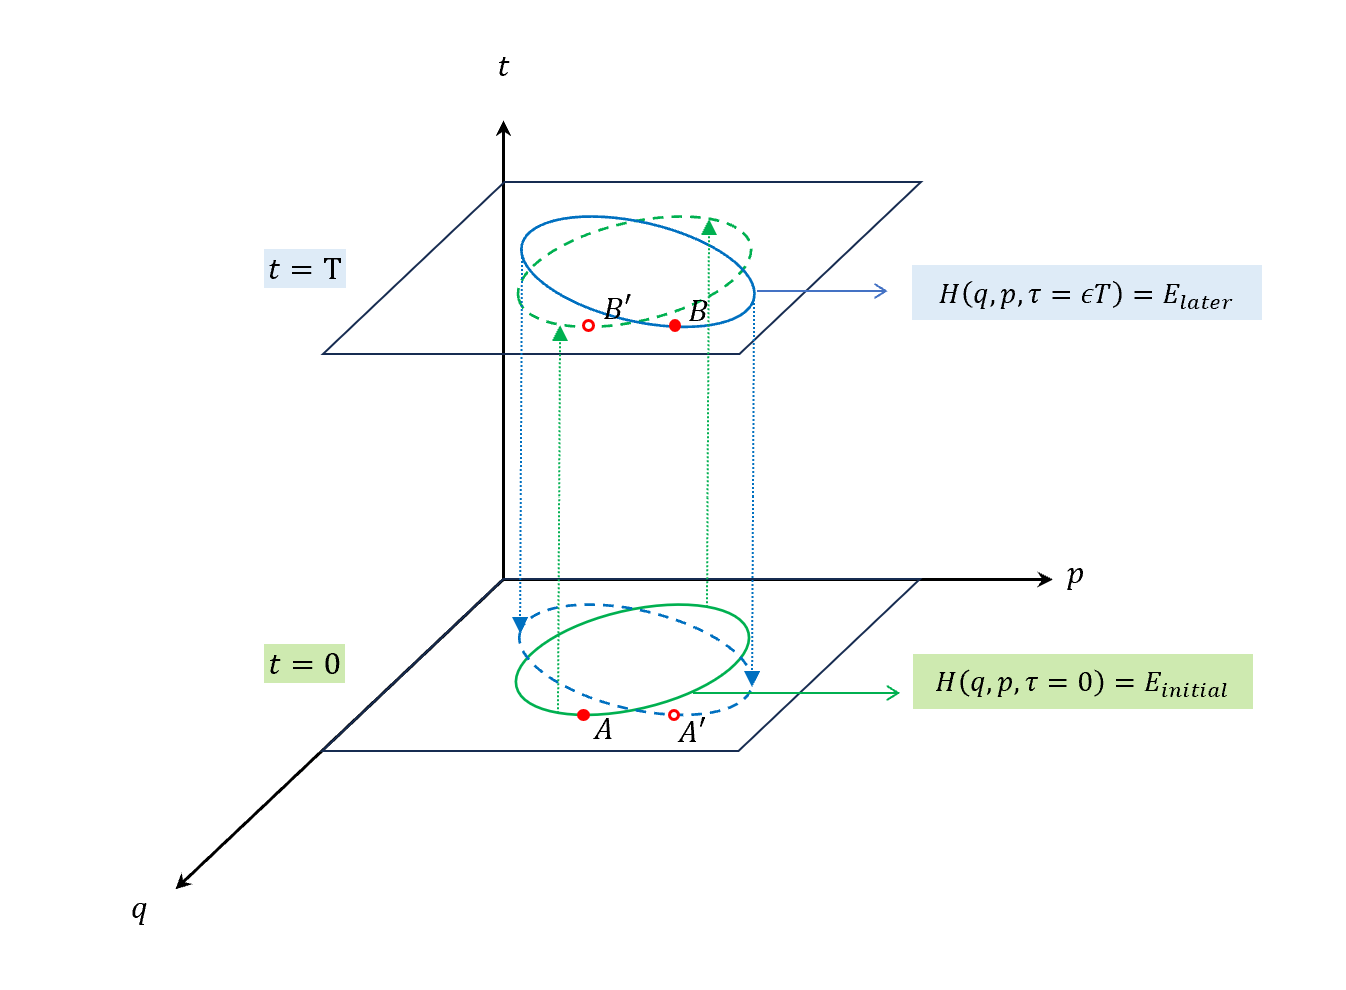
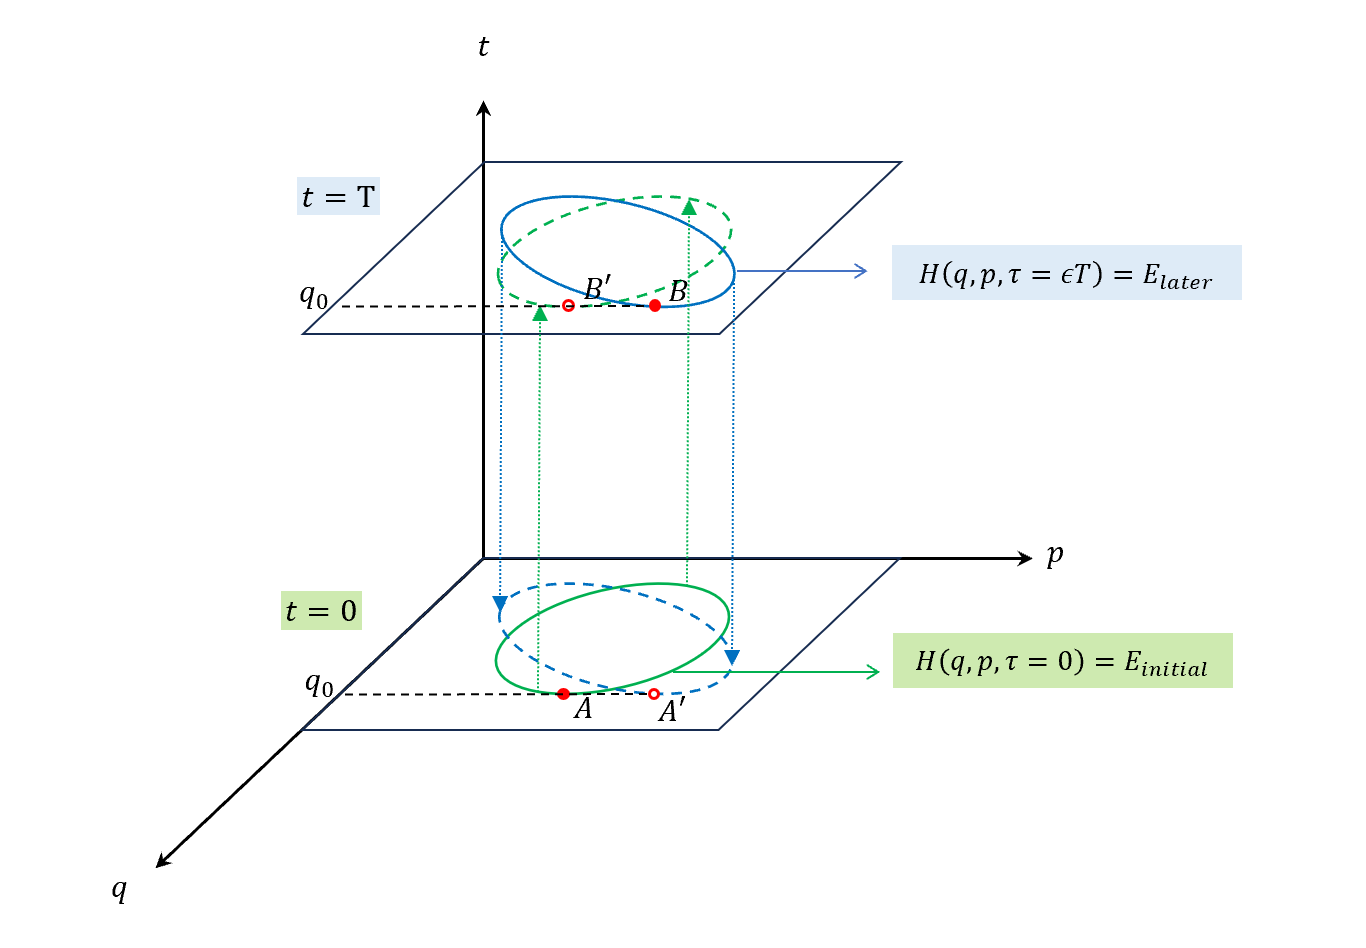
update ch21

diff --git a/_posts/physics/variation/2024-06-02-variation-4-001.md b/_posts/physics/variation/2024-06-02-variation-4-001.md
@@ -143,4 +143,220 @@ $$
 
 現在要來做變分，所以拓展到extended phase space，$q,p,t$都可以變化，只是這裡一樣限制自由度，做partial的變化。
 
+
+不多說，先上圖。
+
+
 {% include posts-fig.html path="/physics_variation/Fig21-2.png" %}
+
+
+現在整個系統的時間是一直在走的，$H$一直在變，所以是從$t=0$走到$t=T$，從$A$點螺旋上去走到$B$點，
+
+
+而我們現在畫圖就類似截圖的概念，在$t=0$和$t=T$各截一張，並畫出各自的$\oint{pdq}$。
+
+
+- $t=0$的時候，畫綠線，往上投影到$t=T$的綠色虛線。
+- $t=T$的時候，畫藍線，往下投影到$t=0$的藍色虛線。
+
+
+
+**注意**，我們有強調一次週期要算的是回到起始位置(盪一次回來)，所以可以看到經過時間$T$之後對應的$q$軸會是一樣的，但$p$就不需要了，只是預期
+
+$$
+p(t=T)-p(t=0)=\mathcal{O}(\epsilon)
+$$
+
+(可以想像，把前言的$H$公式做$\diff{p}{t}=-\pdv{H}{q}$計算，則$p$的變化量也是$\mathcal{O}(\epsilon)$。)
+
+
+### 做變分
+
+因為真實軌跡可以想像就是從綠色變成藍色，所以我們可以有兩種變法
+
+- 都維持在綠色(起始)的柱狀，會從$A$繞到$B'$，定為$\gamma{1}$
+- 都維持在藍色(最後)的柱狀，回推$B$繞到$A'$，定為$\gamma{2}$
+
+
+確認邊界條件$q$都沒有變就可以了。
+
+
+接著真實軌跡和變分的軌跡關係式(記得最早說過的變分取極值的概念，$\delta$() = 0)
+
+$$
+\int_{\text{true}}^{}pdq-Hdt\\
+=\int_{\gamma{1}}pdq-Hdt+\mathcal{O}(\epsilon^2)\\
+=\int_{\gamma{2}}pdq-Hdt+\mathcal{O}(\epsilon^2)
+$$
+
+
+因為end point condition是$\mathcal{O}(\epsilon)$，integral後就是$\mathcal{O}(\epsilon^2)$。
+
+
+(這裡還有點疑惑，但因為真實軌跡積起來的動量前面說到是差$\mathcal{O}(\epsilon)$，而變分這裡因為是圓柱狀直接對應，$p$沒差，所以的確相較於真實軌跡會差$\mathcal{O}(\epsilon)$，所以積分完就是二次。)
+
+移項
+
+$$
+\int_{\gamma{2}}pdq-\int_{\gamma{1}}pdq=\int_{\gamma{2}}Hdt-\int_{\gamma{1}}Hdt+\mathcal{O}(\epsilon^2)
+$$
+
+注意這裡的積分是繞著柱狀螺旋上去的軌跡，但我們從最上面俯視看的話，可以看到就是一個平面的二維曲線，所以改寫成circular integral
+
+$$
+\oint_{\text{at } t=T}pdq-\oint_{\text{at }t=0}pdq=\int_{\gamma{2}}Hdt-\int_{\gamma{1}}Hdt+\mathcal{O}(\epsilon^2)
+$$
+
+
+<div class="post_note">
+Note:
+<br>
+複習一下泰勒展開
+
+$$
+f(x) = \sum_{n=0}^{\infty} \frac{f^{(n)}(a)}{n!}(x - a)^n
+$$
+
+</div>
+
+### 綠色$\gamma{1}$
+
+在$t=0$做泰勒展開
+
+$$
+\int_{\gamma{1}}H(q,p,\tau=\epsilon{t})dt\\
+=\int \left(H(q,p,0)+\pdv{H(q,p,\tau)}{\tau}\epsilon{t}\right)dt+\mathcal{O}(\epsilon^2)\\
+=E_{\text{initial}}\cdot{T}+\epsilon\int\pdv{H(q,p,\tau)}{\tau}\bigg|_{\tau=0}^{}tdt+\mathcal{O}(\epsilon^2)
+$$
+
+### 藍色$\gamma{2}$
+
+在$t=T$做泰勒展開
+
+$$
+\int_{\gamma{2}}H(q,p,\tau=\epsilon{t})dt\\
+=\int_{\gamma{2}}H(q,p,\tau=\epsilon(T+t-T))dt\\
+=\int \left(H(q,p,\epsilon{T})+\pdv{H}{\tau}\epsilon{(t-T)}\right)dt+\mathcal{O}(\epsilon^2)\\
+=E_{\text{final}}\cdot{T}+\epsilon\int\pdv{H(q,p,\tau)}{\tau}\bigg|_{\tau=\epsilon{T}}^{}(t-T)dt+\mathcal{O}(\epsilon^2)\\
+=E_{\text{final}}\cdot{T}+\epsilon\int\pdv{H(q,p,\tau)}{\tau}\bigg|_{\color{red}{\tau=0}}^{}(t-T)dt+\mathcal{O}(\epsilon^2)
+$$
+
+這裡微分的at數值變了，是因為本來$\tau=\epsilon{T}$和$\tau=0$的時候，就會差$\epsilon$，所以有二次項的地方都收集到最後面的$\mathcal{O}(\epsilon^2)$。
+
+### 結合
+
+$$
+\begin{align}
+\int_{\gamma{2}}Hdt-\int_{\gamma{1}}Hdt=& (E_\text{final}-E_\text{initial})T\\
+&+\epsilon\int_{\gamma{2}}\pdv{H(q,p,\tau)}{\tau}\bigg|_{\tau=0}^{}(t-T)dt\\
+&-\epsilon\int_{\gamma{1}}\pdv{H(q,p,\tau)}{\tau}\bigg|_{\tau=0}^{}tdt\\
+&+\mathcal{O}(\epsilon^2)\\
+=& (E_\text{final}-E_\text{initial})T\\
+&+\epsilon\int_{\color{red}{\gamma{1}}}\pdv{H(q,p,\tau)}{\tau}\bigg|_{\tau=0}^{}(t-T)dt\\
+&-\epsilon\int_{\gamma{1}}\pdv{H(q,p,\tau)}{\tau}\bigg|_{\tau=0}^{}tdt\\
+&+\mathcal{O}(\epsilon^2)\\
+=& (E_\text{final}-E_\text{initial})T+\epsilon\int_{\gamma{1}}\pdv{H(q,p,\tau)}{\tau}\bigg|_{\tau=0}^{}(-T)dt+\mathcal{O}(\epsilon^2)\\
+=&(E_\text{final}-E_\text{initial})T-T\int_{\gamma{1}}\epsilon\pdv{H}{\tau}dt+\mathcal{O}(\epsilon^2)\\
+=&(E_\text{final}-E_\text{initial})T-T\int_{\gamma{1}}\pdv{H}{t}dt+\mathcal{O}(\epsilon^2)\\
+=&T\left[(E_\text{final}-E_\text{initial})-\int_{\gamma{1}}\pdv{H}{t}dt\right]+\mathcal{O}(\epsilon^2)\\
+=&T\cdot{0}+\mathcal{O}(\epsilon^2)\\
+=&\mathcal{O}(\epsilon^2)
+\end{align}
+$$  
+
+
+推導過程解釋幾個
+
+- 第二個等號：因為$\gamma{2}$改$\gamma{1}$差別是$\mathcal{O}(\epsilon)$，搭配前面的係數$\epsilon$，收集起來的二次項一樣可以放到後面$\mathcal{O}(\epsilon^2)$。
+- 第五個等號：$\tau=\epsilon{t}$
+- 最後一個等號：$\diff{H}{t}=\pdv{H}{t}\Rightarrow\Delta{H}=\int_{0}^{T}\pdv{H}{t}dt$
+
+### 得證
+
+很棒！那整理一下就是
+
+$$
+\oint_{\text{at } t=T}pdq-\oint_{\text{at }t=0}pdq=\int_{\gamma{2}}Hdt-\int_{\gamma{1}}Hdt+\mathcal{O}(\epsilon^2)=\mathcal{O}(\epsilon^2)
+$$
+
+用我們定義的$J$就是
+
+$$
+J\bigg|_{\text{when q has come back}}^{}=J\bigg|_{\text{q=initial}}^{}+\mathcal{O}(\epsilon^2)
+$$
+
+
+(附註一下，這全部的推導過程中，我都把二階項留了下來，但原始筆記有些有漏掉，但覺得應該這樣比較合理。)
+
+
+證實之前的猜想二，每一次週期回來原本的位置，都會差二次數量級，而累積長時間之後(up to $\mathcal{O}(\frac{1}{\epsilon})$)，就會差$\mathcal{O}(\epsilon)$而不是$\mathcal{O}(1)$
+
+$$
+J(t=\mathcal{O}(\frac{1}{\epsilon}))-J(t=0)=\mathcal{O}(\epsilon)\text{ only!!}
+$$
+
+## 小結
+
+再順一下思路，我們原本預設的$H$每次都要差$\mathcal{O}(\epsilon)$，所以$\mathcal{O}(\frac{1}{\epsilon})$會差$\mathcal{O}(1)$，認為在這個系統中，應該也都遵循著這個形式，物理量都差$\mathcal{O}(1)$。
+
+
+但是發現有一個adiabatic invartiant的物理量$\oint pdq$，每次只差$\mathcal{O}(\epsilon^2)$，所以$\mathcal{O}(\frac{1}{\epsilon})$之後只差$\mathcal{O}(\epsilon)$。
+
+## 舉例
+
+我們舉最常見的單擺SHO，假設現在我們偷偷慢慢拉繩子，所以公式類似這樣
+
+$$
+\diff[2]{\theta}{t}+\frac{g}{l(t)}\theta=0\\
+(\text{$l$ varied by t})
+$$
+
+那$H$公式
+
+$$
+H=\frac{p^2}{2m}+\frac{m\omega^2}{2}q^2=E\\
+(\omega=\omega(\tau)\text{ depends on the time t})
+$$
+
+代入Adiabatic Invariant
+
+$$
+\begin{align}
+J=\oint{pdq}&=2\int_{qmin}^{qmax}\sqrt{2m\left(E-\frac{m\omega^2}{2}q^2\right)}dq\\
+&=4\int_{0}^{qmax}\sqrt{2m\left(E-\frac{m\omega^2}{2}q^2\right)}dq
+\end{align}
+$$
+
+變數變換
+
+$$
+q\equiv\sqrt{\frac{2E}{m\omega^2}}\xi\\
+\xi\equiv\sin\theta
+$$
+
+代回去
+
+$$
+\begin{align}
+J&=4\int_{0}^{1}\sqrt{2mE}\sqrt{\frac{2E}{m\omega^2}}\sqrt{1-\xi^2}d\xi\\
+&=\frac{8}{\omega}E\int_{0}^{1}\sqrt{1-\xi^2}d\xi\\
+&=\frac{8E}{\omega}\frac{1}{2}\cdot\frac{\pi}{2}\\
+&=E\cdot\frac{2\pi}{\omega}\\
+&=\frac{E}{\nu}\quad(\nu\text{: wanted frequency})
+\end{align}
+$$
+
+前面證明過，經過很長時間累積，最後和最初相差只有$\mathcal{O}(\epsilon)$，也就是
+
+$$
+\oint_{\text{after a long time}}{pdq}=\frac{E_{\text{final}}}{\nu_{\text{final}}}\approx\oint_{\text{initial}}{pdq}=\frac{E_{\text{initial}}}{\nu_{\text{initial}}}
+$$
+
+因為$\omega(t)$可以根據給予的情況而變，所以其實$\nu_{\text{initial}}$和$\nu_{\text{final}}$可以差別很大，$E_{\text{initial}}$和$E_{\text{final}}$也可以差別很大，但是重點在於兩者最後比比值相近
+
+$$
+\frac{E_{\text{final}}}{\nu_{\text{final}}}\approx\frac{E_{\text{initial}}}{\nu_{\text{initial}}}
+$$
+
+
+這個就有趣了！我們留到下章節在講！

diff --git a/_posts/physics/variation/2024-06-08-variation-4-002.md b/_posts/physics/variation/2024-06-08-variation-4-002.md
@@ -1,0 +1,66 @@
+---
+title:  "(22) 變分 Adiabatic Invariant ─ 古典和量子的結合"
+categories:
+  - physics
+tags:
+  - variation
+---
+
+
+## 前言
+
+上一章節提到
+
+$$
+J=\oint{pdq}\\
+J(t=\mathcal{O}(\frac{1}{\epsilon}))-J(t=0)=\mathcal{O}(\epsilon)
+$$
+
+如果套用到簡單的單擺SHO例子，則可得到
+
+$$
+\frac{E_{\text{final}}}{\nu_{\text{final}}}\approx\frac{E_{\text{initial}}}{\nu_{\text{initial}}}
+$$
+
+## $E / \nu$的意義
+
+### 回顧 Adiabatic Invariant意義
+
+當系統隨著時間緩慢變化，參數隨時間改變，$H$也會跟著變。但在每個特定的時間下，我們可以紀錄一組參數，其對應的$H$是closed constant energy curve，在這個curve上做積分，因為$H$不變，所以在計算的公式是$\oint{pdq}$，我們將其定義為$J$。
+
+這個$J$代表某個action，$J$基本上隨著時間演化會有變動(fluctuation)，是$\mathcal{O}(\epsilon)$，理論上經過很長時間$\mathcal{O}(\frac{1}{\epsilon})$，會是$\mathcal{O}(1)$的變化。但從前面的證明出來，其實這個action的變化，經過one period時間後，fluctuation會變得很小，非常接近原始數值，跟原始數值幾乎是一樣的，變化降為$\mathcal{O}(\epsilon^2)$，所以經過很長的時間$\mathcal{O}({\frac{1}{\epsilon}})$，卻僅有$\mathcal{O}(\epsilon)$的變化。
+\\\\
+以下是公式說明
+\begin{figure}[!htp]
+\centering
+\includegraphics[width=\figwid]{\figfolder32.jpg}
+\caption{筆記公式註解}
+\end{figure}
+\FloatBarrier
+\noindent
+\begin{gather*}
+\Rightarrow J(t) \text{ remains close to }J(t=0) \text{even after a very long time}
+\end{gather*}
+不過，Adiabatic Invariant有什麼特別的意義呢？得到這個結果又怎麼樣？
+\\\\\\
+其實這個概念在19世紀就已經有了，主要是來自old quantum theory的需求，當時普朗克提出了SHO的能量量子化$E_n=nh\nu$，那對應到古典力學的問題，Lorentz在想那如果是一個單擺，慢慢拉，能量會變，頻率也會變，這時候的比值也會一樣嗎？
+\\\\
+也就是說，若現在拿任意的oscillator，從普朗克我們知道一開始
+\begin{gather*}
+\frac{E_0}{\nu_0}=h \qquad\text{for a given }\nu_0
+\end{gather*}
+再從之前的證明我們知道可以經過一段很長的時間後，改變頻率從$\nu_0$到$\nu'$，這時Adiabatic Invariant告訴我們
+\begin{gather*}
+\frac{E_0}{\nu_0}=\frac{E'}{\nu'}
+\end{gather*}
+\textcolor{red}{\bf 等號左邊來自量子，而這個等號(之前的證明)卻是來自古典呀！}
+\\\\
+所以
+\begin{gather*}
+E'=h\nu'
+\end{gather*}
+代表著一個具有自然頻率$\nu'$的oscillator也有{\bf 量子化}的能量！且這個$h$跟最一開始的普朗克$E_0=h\nu_0$是一樣的！
+\\\\
+這裡展現了量子和古典的完美結合，也讓Planck's hypothesis is self-consisting。
+\\\\
+你可以想像，如果今天我們證明出來的$J=\frac{E}{\nu^2}$，那就沒辦法對應起來了。
